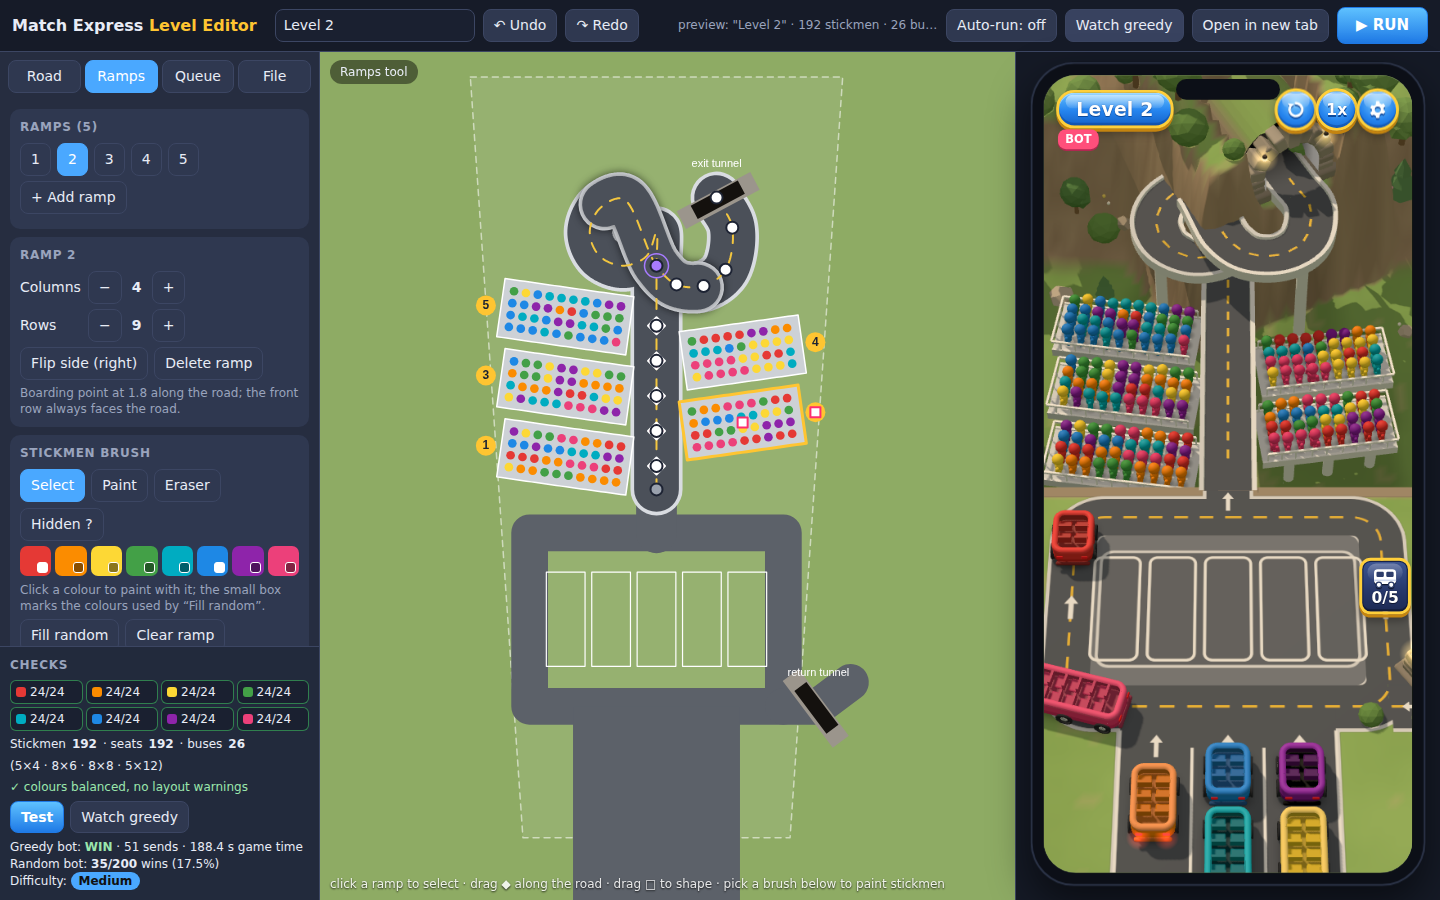
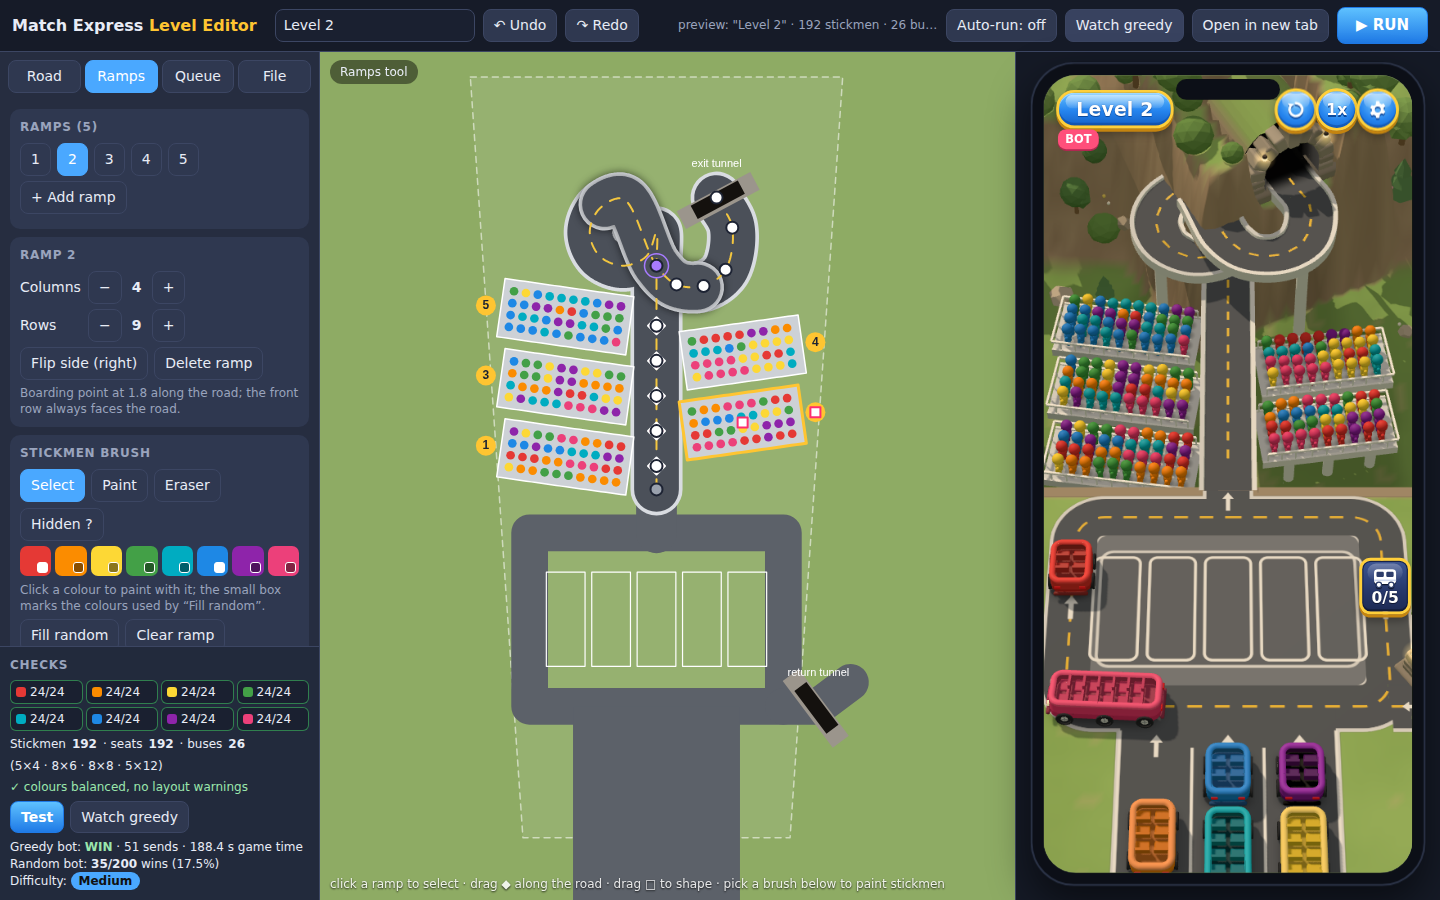
Match Express: full-bus exit never hops under an overpass
Each exit now finds the nearest point beyond the road edge where the hop and
the opening parachute have open sky. A bus filled at ramp 5 (under the
elevated U-turn after the spiral) keeps driving sideways at road height,
above the crowd below, until it is clear, then hops. Phase timings stretch
with the slide; the win panel waits for the last parachute. New browser
check: no raised road above the hop or the parachute.

Claude-Session: https://claude.ai/code/session_013X1eRqqLckYB5N4wv1vtwM

diff --git a/match-express/index.html b/match-express/index.html
@@ -1021,7 +1021,8 @@ function handleEvents(){
       case 'land': { MV[e.man].landT = e.t; v.bobV -= 0.42; sfx.pop(e.chain); break; }
       case 'boardStart': v.boardRamp = e.ramp; break;
       case 'jump': startExit(v, e); sfx.horn(); break;
-      case 'win': winAt = e.t + EXIT.chute + 0.42 + C.WIN_PANEL_DELAY; winSoundAt = e.t + EXIT.chute + 0.45; break;
+      case 'win': { const J = views[e.bus] && views[e.bus].jump, tc = J ? J.tc : EXIT.side + EXIT.chute;    // after the last parachute opens
+        winAt = e.t + tc + 0.42 + C.WIN_PANEL_DELAY; winSoundAt = e.t + tc + 0.45; break; }
       case 'tunnelIn': sfx.echo(); WD.lamps.top.pulseT = e.t; break;
       case 'tunnelOut': WD.lamps.ret.pulseT = e.t; break;
       case 'rampEmpty': { const b = WD.badges[e.ramp]; b.visible = true; b.userData.t0 = e.t; b.userData.sparkled = false; break; }
@@ -1165,50 +1166,62 @@ function updateBus(v, t, vdt){
   if (v.link){ v.link.visible = b.state === 'lane'; v.link.position.y = 1.1 + Math.sin(t*3.4 + b.id)*0.04; }
 }
 /* A full bus first drives straight sideways (perpendicular to the road) off the edge on the side
-   away from its ramp, above the neighbouring crowds; only once it is clear of the road does it
-   crouch, hop and open a parachute in its colour, then swing like a pendulum while drifting down
-   and away.  Its passengers raise their arms and wave. */
-const EXIT = {side:0.5, crouch:0.62, hop:0.86, chute:0.74};
+   away from its ramp, above the neighbouring crowds; only once it is clear of the road - and out
+   from under any road overhead - does it crouch, hop and open a parachute in its colour, then swing
+   like a pendulum while drifting down and away.  Its passengers raise their arms and wave. */
+const EXIT = {side:0.5, crouch:0.12, hop:0.24, chute:0.24};       // nominal phase lengths (s); the slide stretches with its distance
+const EXIT_OUT = C.ROAD_HALF + C.BUS_W/2 + 0.12;                  // centre this far out = clear of the road edge
+function exitDistance(x, y, z, ex, ez, len){
+  // nearest distance (>= EXIT_OUT) where the hop and the opening parachute have open sky: no raised road overhead
+  const R = L.ROAD, reach = Math.max(len/2, 1.0) + C.ROAD_HALF + 0.15;
+  const blocked = (cx, cz) => { for (let i = 0; i < R.n; i += 2){ const py = R.P[i*3+1]; if (py < y + 0.35 || py - 0.24 > y + 3.2) continue;
+    if (Math.hypot(R.P[i*3] - cx, R.P[i*3+2] - cz) < reach) return true; } return false; };
+  for (let d = EXIT_OUT; d < EXIT_OUT + 3.5; d += 0.1){
+    let ok = true; for (let k = 0; k <= 1.2 && ok; k += 0.2) if (blocked(x + ex*(d + k), z + ez*(d + k))) ok = false;
+    if (ok) return d; }
+  return EXIT_OUT + 3.5;
+}
 function startExit(v, e){
   const b = v.b, r = v.boardRamp >= 0 ? L.RAMPS[v.boardRamp] : null;
   const hx = Math.sin(v.h), hz = Math.cos(v.h);                       // heading of the bus as drawn
   let ex, ez;
   if (r){ ex = hz*r.side; ez = -hx*r.side; }                          // away from the ramp it boarded at
   else { ex = e.side; ez = 0; }
-  v.jump = {t0:e.t, x:v.p.x, y:v.p.y, z:v.p.z, h:v.h, ex, ez, dust:false, side:Math.sign(ex*hz - ez*hx) || 1};
+  const out = exitDistance(v.p.x, v.p.y, v.p.z, ex, ez, b.len), t1 = EXIT.side*Math.sqrt(out/EXIT_OUT);
+  v.jump = {t0:e.t, x:v.p.x, y:v.p.y, z:v.p.z, h:v.h, ex, ez, dust:false, side:Math.sign(ex*hz - ez*hx) || 1,
+            out, t1, t2:t1 + EXIT.crouch, t3:t1 + EXIT.crouch + EXIT.hop, tc:t1 + EXIT.chute};
   v.chute = makeChute(b.color); v.chute.visible = false; v.whooshed = false;
 }
 function updateJump(v, t, vdt){
   const J = v.jump, b = v.b;
   if (!J){ v.root.visible = false; return; }
   const u = t - J.t0;
-  if (u > C.PARACHUTE_DURATION + 1.0){ v.root.visible = false; removeChute(v); return; }
+  if (u > J.t3 + C.PARACHUTE_DURATION){ v.root.visible = false; removeChute(v); return; }
   v.root.visible = true; v.slope.rotation.x *= 0.85; v.mat.color.setScalar(1); v.dark = 0;
-  const OUT = C.ROAD_HALF + C.BUS_W/2 + 0.12;                          // centre this far out = clear of the road
-  let x = J.x, y = J.y, z = J.z, sq = 1, swing = 0, lean = 0, yaw = 0;
+  let x = J.x, y = J.y, z = J.z, sq = 1, swing = 0, lean = 0, yaw = 0, slid = J.out;
   const off = (d) => { x += J.ex*d; z += J.ez*d; };
-  if (u < EXIT.side){                                                  // 1) straight sideways off the road
-    const k = u/EXIT.side; off(OUT*easeInOut(k)); lean = -0.1*Math.sin(Math.PI*k); yaw = 0.06*Math.sin(Math.PI*k);
-    if (k > 0.55 && !J.dust){ J.dust = true; const p = new THREE.Vector3(J.x + J.ex*(C.ROAD_HALF), J.y + 0.05, J.z + J.ez*(C.ROAD_HALF)); puff(p, 12, [J.ex, J.ez], 0.8, 0.9); sfx.thud(); }
-  } else if (u < EXIT.crouch){ off(OUT); const k = (u - EXIT.side)/(EXIT.crouch - EXIT.side); sq = 1 - 0.2*Math.sin(Math.PI*k); }   // 2) crouch
-  else if (u < EXIT.hop){ const k = (u - EXIT.crouch)/(EXIT.hop - EXIT.crouch);                       // 3) hop up, stretched
-    off(OUT + 0.5*k); y += 0.55*Math.sin(Math.PI*0.5*k); sq = 1 + 0.16*Math.sin(Math.PI*k); }
-  else { const k = u - EXIT.hop;                                                                       // 4) swing down and away
+  if (u < J.t1){                                                       // 1) straight sideways off the road (and out from under any overpass)
+    const k = u/J.t1; slid = J.out*easeInOut(k); off(slid); lean = -0.1*Math.sin(Math.PI*k); yaw = 0.06*Math.sin(Math.PI*k);
+    if (slid > C.ROAD_HALF + 0.25 && !J.dust){ J.dust = true; const p = new THREE.Vector3(J.x + J.ex*(C.ROAD_HALF), J.y + 0.05, J.z + J.ez*(C.ROAD_HALF)); puff(p, 12, [J.ex, J.ez], 0.8, 0.9); sfx.thud(); }
+  } else if (u < J.t2){ off(J.out); const k = (u - J.t1)/(J.t2 - J.t1); sq = 1 - 0.2*Math.sin(Math.PI*k); }   // 2) crouch
+  else if (u < J.t3){ const k = (u - J.t2)/(J.t3 - J.t2);                                              // 3) hop up, stretched
+    off(J.out + 0.5*k); y += 0.55*Math.sin(Math.PI*0.5*k); sq = 1 + 0.16*Math.sin(Math.PI*k); }
+  else { const k = u - J.t3;                                                                           // 4) swing down and away
     swing = 0.34*Math.sin(k*3.1)*Math.exp(-k*0.35);
-    off(OUT + 0.5 + 1.6*k + 0.5*k*k); z += 0.45*k; y += 0.55 - 0.42*k - (1 - Math.cos(swing))*1.1; }
-  if (u > EXIT.chute && !v.whooshed){ v.whooshed = true; sfx.whoosh(); }
+    off(J.out + 0.5 + 1.6*k + 0.5*k*k); z += 0.45*k; y += 0.55 - 0.42*k - (1 - Math.cos(swing))*1.1; }
+  if (u > J.tc && !v.whooshed){ v.whooshed = true; sfx.whoosh(); }
   v.root.position.set(x, y, z);
   v.root.rotation.y = J.h + yaw;
   v.body.position.set(0, 0, 0); v.body.scale.set(1/Math.sqrt(sq), sq, 1/Math.sqrt(sq));
   // swing about the bus's own long axis toward the drift side
   v.body.rotation.set(0, 0, (swing + lean)*J.side);
-  v.shadow.visible = u < EXIT.side; v.shadow.material.opacity = 0.42*(1 - smooth(0.25, 0.5, u/EXIT.side));
-  const open = clamp((u - EXIT.chute)/0.42, 0, 1), s = open > 0 ? easeOutBack(open, 2.6) : 0.01;
+  v.shadow.visible = u < J.t1; v.shadow.material.opacity = 0.42*(1 - smooth(C.ROAD_HALF - 0.2, EXIT_OUT, slid));   // only while over the road
+  const open = clamp((u - J.tc)/0.42, 0, 1), s = open > 0 ? easeOutBack(open, 2.6) : 0.01;
   if (v.chute){
     const ch = v.chute, cs = Math.max(0.01, s)*1.08;
     ch.position.set(x - J.ex*0.05 - Math.sin(swing)*0.3*J.ex, y + 0.85 + 0.95*cs, z - 0.25*cs);
-    ch.scale.set(cs, Math.max(0.01, clamp((u - EXIT.chute)/0.25, 0.25, 1))*cs, cs);             // unfolds: widens, then fills out
-    ch.rotation.set(-0.25, 0, -swing*0.5*J.side); ch.visible = u > EXIT.chute;
+    ch.scale.set(cs, Math.max(0.01, clamp((u - J.tc)/0.25, 0.25, 1))*cs, cs);                   // unfolds: widens, then fills out
+    ch.rotation.set(-0.25, 0, -swing*0.5*J.side); ch.visible = u > J.tc;
     v.root.updateMatrixWorld(true); ch.updateMatrixWorld(true);
     const Ls = ch.userData.lines, pa = Ls.geometry.attributes.position, W2 = 0.4, Lz = b.len*0.38;
     const corners = [[W2, Lz], [-W2, Lz], [W2, -Lz], [-W2, -Lz]];
@@ -1219,7 +1232,7 @@ function updateJump(v, t, vdt){
     }
     pa.needsUpdate = true; Ls.visible = ch.visible;
   }
-  if (vdt > 0 && u < EXIT.side) v.wheelAng += 0.6*vdt/WHEEL_R;
+  if (vdt > 0 && u < J.t1) v.wheelAng += 0.6*vdt/WHEEL_R;
   v.spd = 0; v.brakeMat.emissiveIntensity = 0.15; v.bGlow.forEach(s => s.material.opacity = 0);
 }
 function updateWheels(){
@@ -1325,7 +1338,7 @@ function updateMen(t, vdt){
     _e.set(v.pitch*1.8 + Math.sin(t*1.9 + mv.ph)*0.02, 0, v.roll*1.6 + Math.sin(t*mv.swayF + mv.ph)*0.04, 'XYZ'); _q.setFromEuler(_e);
     _v.set(0, bounce*0.2, 0); _s.set(1 + bounce*0.25, 1 - bounce*0.5, 1 + bounce*0.25);
     _a.compose(_v, _q, _s); seatMat.multiply(_a);
-    if (b.state === 'jump' && t - b.tJump > EXIT.crouch - 0.1){ const w = Math.sin(t*13 + mv.ph)*0.35;
+    if (b.state === 'jump' && v.jump && t - b.tJump > v.jump.t1 - 0.1){ const w = Math.sin(t*13 + mv.ph)*0.35;
       setManMatrix(i, seatMat, pose(-2.0 + w, -2.0 - w, 1.05, 1.05, -1.5, -1.5)); }
     else setManMatrix(i, seatMat, pose(-0.6, -0.6, 0.1, 0.1, -1.5, -1.5));
     const dk = v.dark; if (Math.abs((mv.tint || 0) - dk) > 0.02){ manColor(i, dk); mv.tint = dk; }

diff --git a/match-express/tests/browser.test.js b/match-express/tests/browser.test.js
@@ -87,7 +87,7 @@ async function until(fn, ms = 20000, step = 150){ const t0 = Date.now(); let v; 
         const J = v.jump, L = __me.layout, r = L.RAMPS[v.boardRamp], samples = [];
         for (let i = 0; i < 40; i++){ __me.advance(1/30); samples.push({u:g.t - J.t0, x:v.root.position.x, y:v.root.position.y, z:v.root.position.z}); }
         const hx = Math.sin(J.h), hz = Math.cos(J.h), out = s => (s.x - J.x)*J.ex + (s.z - J.z)*J.ez, along = s => (s.x - J.x)*hx + (s.z - J.z)*hz;
-        const side = samples.filter(s => s.u <= __me.EXIT.side), atEdge = side[side.length - 1], firstUp = samples.find(s => s.y > J.y + 0.02);
+        const side = samples.filter(s => s.u <= J.t1), atEdge = side[side.length - 1], firstUp = samples.find(s => s.y > J.y + 0.02);
         const rampSide = (r.x - J.x)*J.ex + (r.z - J.z)*J.ez;                  // the ramp's boarding point relative to the exit direction
         const awayFromRamp = (() => { const o = {}; window.MECore.pathAt(L.ROAD, r.s, o, 0); const nx = -o.dz*r.side, nz = o.dx*r.side; return nx*J.ex + nz*J.ez; })();
         return {maxAlong:Math.max(...side.map(s => Math.abs(along(s)))), flat:Math.max(...side.map(s => Math.abs(s.y - J.y))), outAtEdge:out(atEdge),
@@ -96,6 +96,18 @@ async function until(fn, ms = 20000, step = 150){ const t0 = Date.now(); let v; 
       chk(ex && ex.awayFromRamp < -0.99, 'it leaves on the side away from the ramp it boarded at');
       chk(ex && ex.outAtEdge >= ex.need && ex.outAtHop !== null && ex.outAtHop >= ex.need, 'the hop and parachute start only after the bus is completely off the road',
           ex && `clear at ${ex.need.toFixed(2)}, hop starts at ${ex.outAtHop && ex.outAtHop.toFixed(2)}`);
+      // a bus that fills under an overpass (ramp 5, below the U-turn after the spiral) slides further before it hops:
+      // during the hop and the first second under the parachute no raised road is overhead
+      const ov = await p.evaluate(() => { const g = __me.game, L = __me.layout, R = L.ROAD; let v = null;
+        for (let i = 0; i < 30*120 && !v; i++){ __me.advance(1/30); v = __me.views.find(w => w.b.state === 'jump' && w.jump && w.jump.out > 1.5 && g.t - w.jump.t0 < 0.05); }
+        if (!v) return null;
+        const J = v.jump; let worst = Infinity;
+        while (g.t - J.t0 < J.t3 + 1.0){ __me.advance(1/30); if (g.t - J.t0 < J.t2) continue;
+          const c = v.root.position; for (let i = 0; i < R.n; i += 2){ const py = R.P[i*3+1]; if (py < J.y + 0.35 || py - 0.24 > c.y + 3.2) continue;
+            worst = Math.min(worst, Math.hypot(R.P[i*3] - c.x, R.P[i*3+2] - c.z)); } }
+        return {ramp:v.boardRamp + 1, out:J.out, clear:worst}; });
+      chk(ov && ov.clear > 1.5, 'a bus filled under an overpass slides out from under it before hopping (no road above the hop or the parachute)',
+          ov && `ramp ${ov.ramp}: slides ${ov.out.toFixed(2)}, nearest raised road ${ov.clear.toFixed(2)} away`);
       await ctx.close(); }
 
     /* ---------------- editor + preview + second tab ---------------- */

diff --git a/match-express/README.md b/match-express/README.md
@@ -224,7 +224,8 @@ browsers isolate `file://` pages.
     around, each a little differently.
   - **A full bus first drives straight sideways**, perpendicular to the road, off
     the edge on the side away from its ramp, with a dust puff. Only when it is
-    completely off the road does it crouch and hop. The parachute in its colour
+    completely off the road does it crouch and hop. Under the elevated U-turn
+    (ramp 5) it slides further, until no road is overhead. The parachute in its colour
     unfolds with an overshoot, and the bus swings like a pendulum while drifting
     down and away, its passengers waving with both arms.
   - The ramp check badge pops with an overshoot and a sparkle.
@@ -339,7 +340,7 @@ height.
 node tests/rules.test.js      # 28 rule checks (unchanged)
 node tests/layout.test.js     # yard clearance sweep, for both yard presets
 node tests/shared.test.js     # 51 checks: level format, layout builder, warnings, difficulty, links, compact layout
-node tests/browser.test.js    # 53 checks: game + editor in Chromium (needs `npm i playwright`)
+node tests/browser.test.js    # 54 checks: game + editor in Chromium (needs `npm i playwright`)
 node tests/standalone.test.js # 10 checks: builds dist/ and opens both single files from file://
 ```
 
@@ -386,7 +387,8 @@ random bot's 31/200. Only geometry differs for the compact built-in level, and o
     and is larger than the front row;
   - the full-bus exit: it moves perpendicular to the road (drift along it 0.000), on
     the side away from its ramp, without lifting. The hop starts only after the bus
-    is clear of the road (clear at 1.23, hop at 1.41).
+    is clear of the road (clear at 1.23, hop at 1.41). A bus filled under the
+    overpass hops with no road above it.
 
 - Headless rule suite (28 checks), all passing:
   - sending destinations and refusal;
